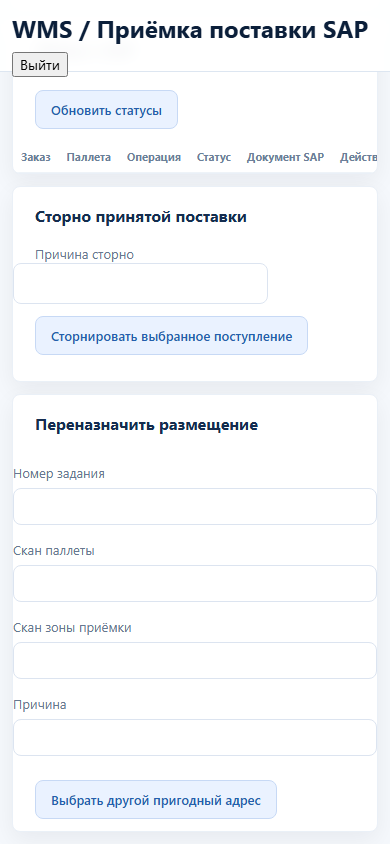
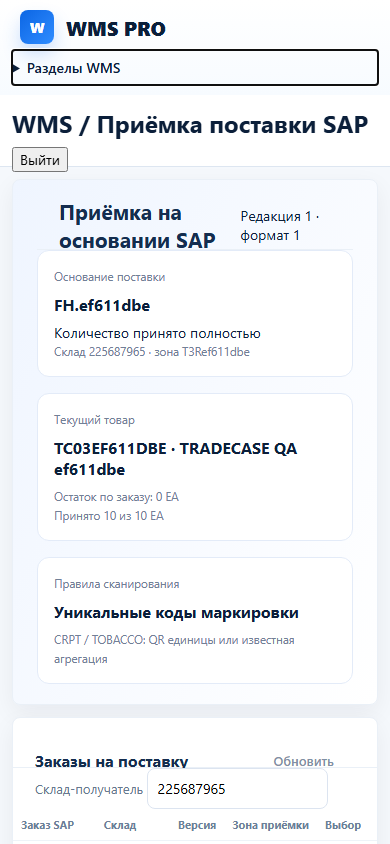
C-0168 review2: receiving section menu collapses on the phone (native details), accepted order shown read only

diff --git a/wiki-raw/wms_admin_ui_reference/receiving.html b/wiki-raw/wms_admin_ui_reference/receiving.html
@@ -3,7 +3,7 @@
 <title>Приёмка поставки SAP — WMS</title><link rel="stylesheet" href="styles.css"><link rel="stylesheet" href="receiving.css?v=20261023-c0168">
 <style>.receipt-grid{display:grid;grid-template-columns:repeat(auto-fit,minmax(200px,1fr));gap:12px}.receipt-grid label{display:flex;flex-direction:column;gap:4px}.receipt-grid input,.receipt-grid select{padding:8px}#receiptMessage{white-space:pre-wrap}tr[data-order],tr[data-line]{cursor:pointer}.selected{background:#e7f2ff}</style></head>
 <body class="auth-pending" data-required-permission="sap_supply_view"><div class="app">
-<aside class="sidebar"><div class="brand"><div class="brand-mark">W</div><div class="brand-text">WMS PRO</div></div><nav class="nav" data-admin-nav data-active-nav="receiving"></nav></aside>
+<aside class="sidebar"><div class="brand"><div class="brand-mark">W</div><div class="brand-text">WMS PRO</div></div><details id="receiptNav" open><summary title="Открыть или свернуть переходы к другим разделам WMS" data-help-id="receiving.nav">Разделы WMS</summary><nav class="nav" data-admin-nav data-active-nav="receiving"></nav></details><script>/* C-0168: on a phone the section menu starts collapsed; desktop keeps it open */if(matchMedia("(max-width:760px)").matches)document.getElementById("receiptNav").open=false;</script></aside>
 <main class="workspace"><header class="topbar"><div class="breadcrumbs"><b>WMS / Приёмка поставки SAP</b></div><button id="adminLogout">Выйти</button></header>
 <section class="admin-page receiving-page"><article id="receiptContext" class="panel receipt-context"><header><h2>Приёмка на основании SAP</h2><span data-version></span></header><div class="receipt-context-grid"><div><small>Основание поставки</small><strong data-order></strong><span data-source-status></span><small data-warehouse></small></div><div><small>Текущий товар</small><strong data-article></strong><small data-remaining></small><small data-accepted></small></div><div><small>Правила сканирования</small><strong data-scanning></strong><small data-profiles></small></div></div></article><article class="panel receipt-list-panel"><header class="panel-header"><h2>Заказы на поставку</h2><button id="receiptRefresh">Обновить</button></header>
 <label>Склад-получатель <input id="receiptWarehouse" type="number" min="1" placeholder="Все доступные"></label>

diff --git a/wiki-raw/wms_admin_ui_reference/receiving.css b/wiki-raw/wms_admin_ui_reference/receiving.css
@@ -46,6 +46,8 @@
  body:has(.receiving-page) .app{display:block}
  body:has(.receiving-page) .sidebar{position:static;width:auto;min-width:0;height:auto;padding:10px 12px;border-right:0}
  body:has(.receiving-page) .nav{max-height:40vh;overflow:auto}
+ body:has(.receiving-page) .brand{padding-bottom:6px}
+ #receiptNav summary{font-weight:600}
  body:has(.receiving-page) .topbar{padding:12px;gap:8px;flex-wrap:wrap}
  .receiving-page{padding:12px;gap:12px}
  .receiving-page .receipt-grid{grid-template-columns:minmax(0,1fr)}
@@ -54,3 +56,4 @@
  .receiving-page .panel-header{flex-wrap:wrap;gap:8px}
  .receiving-page button,.receiving-page select,.receiving-page input,.receiving-page textarea{max-width:100%;white-space:normal}
 }
+#receiptNav summary{cursor:pointer;padding:8px 0}

diff --git a/reports/tradecase/2026-10-23/claude/C0168/README.md b/reports/tradecase/2026-10-23/claude/C0168/README.md
@@ -63,6 +63,15 @@
   - ответы HTTP сохраняются в отчёт.
   - Проверено только чтением: планирование нашло отсутствующий склад; сам сценарий я не запускал.
 
+## Исправление по review (REVIEW2): меню на телефоне
+- `receiving.html`: боковое меню обёрнуто в нативный `<details id="receiptNav" open><summary>` с title и help id — тот же образец, что `#countNav` на странице пересчёта. Небольшой встроенный скрипт сворачивает меню при `max-width:760px`; на рабочем столе оно открыто. Общая навигация и `admin-nav.js` не менялись.
+- `receiving.css`: стиль summary и отступ бренда. Глобальные стили не менялись.
+- Проверка реальной страницы после настоящего входа, только GET (`scripts/c0168_ui.cjs` 13/13):
+  - 390: меню свёрнуто (высота 35 px), клавиша Enter на summary открывает и закрывает его; прокрутки нет; одна колонка;
+  - 1440: меню открыто, две колонки;
+  - принятый заказ root 225687965 / `1215ffb3…` (FH.ef611dbe, «Количество принято полностью», 10 из 10 EA) открыт по существующей ссылке `?warehouse_id=&order_id=` только для чтения;
+  - снимки `screenshots/receiving-order-390.png` и `-1440.png` сделаны с верха страницы, без скрытия высоты меню прокруткой.
+
 ## Живой сценарий для root (`tests/tradecase/live_factory_hierarchy.py`, после перезапуска API)
 1. Новый изолированный склад через существующий `setup()`: вставка в `RRL_WARES` с уникальным индексом ID, поэтому существующий склад не используется.
 2. Профиль UNIT_OR_AGGREGATION; сайт, собственники SNS и BLC, SKU, ячейки.
